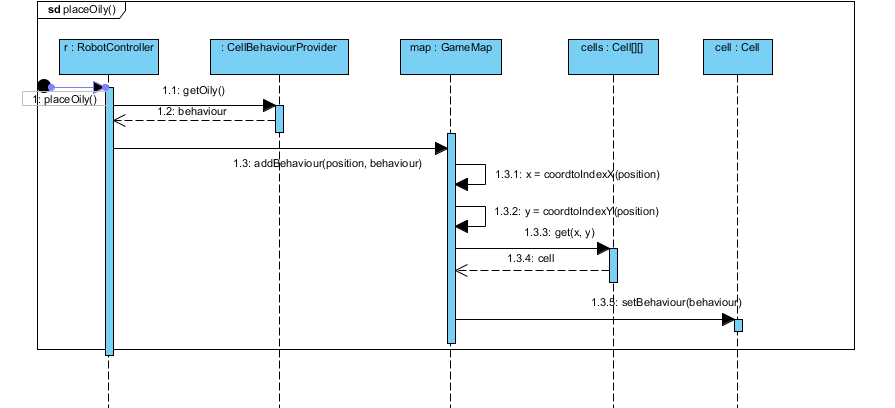
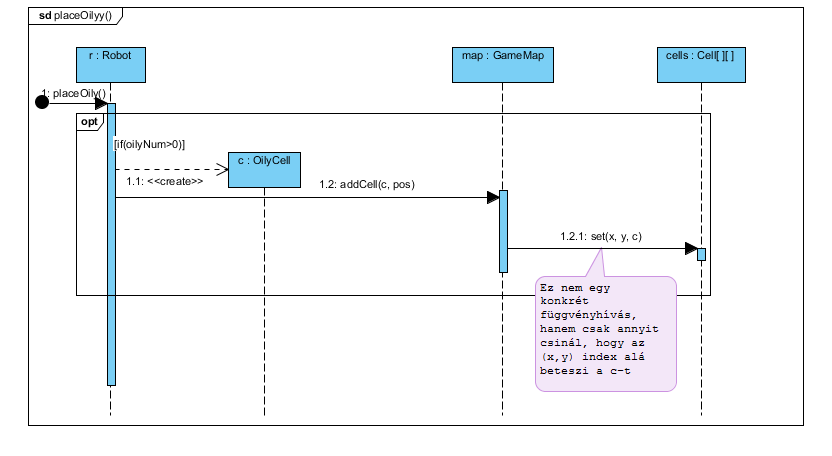
előző diagrammok törlése, képek feltöltése

diff --git a/chapters/chapter03/sablon03.tex b/chapters/chapter03/sablon03.tex
@@ -18,89 +18,10 @@
 
 \section{Statikus struktúra diagramok}
 
-\begin{figure}[!htbp]
-\begin{center}
-	\includegraphics[width=\textwidth, center]{./chapters/chapter03/static1.png}
-	\caption{A játék logikájának nagy részét kezelő osztályok}
-\end{center}
-\end{figure}
-
-\begin{figure}[!htbp]
-\begin{center}
-	\includegraphics[width=130mm, center]{./chapters/chapter03/static2.png}
-	\caption{A pályát, valamint a játék logikájának egy kis részét kezelő osztályok}
-\end{center}
-\end{figure}
 
 \clearpage
 
 \section{Szekvencia diagramok}
-
-\begin{figure}[!htbp]
-\begin{center}
-	\includegraphics[width=190mm, center]{./chapters/chapter03/startgame.png}
-	\caption{Játékindítás}
-\end{center}
-\end{figure}
-
-\begin{figure}[!htbp]
-\begin{center}
-	\includegraphics[width=90mm, center]{./chapters/chapter03/velocity.png}
-	\caption{Sebességvektor beállítása}
-\end{center}
-\end{figure}
-
-
-
-\begin{figure}[!htbp]
-	\begin{center}
-		\includegraphics[width=180mm, center]{./chapters/chapter03/sticky.png}
-		\caption{Ragacs elhelyezése}
-	\end{center}
-\end{figure}
-
-\begin{figure}[!htbp]
-	\begin{center}
-		\includegraphics[width=180mm, center]{./chapters/chapter03/oily.png}
-		\caption{Olaj elhelyezése}
-	\end{center}
-\end{figure}
-
-\begin{figure}[!htbp]
-	\begin{center}
-		\includegraphics[width=\textwidth, center]{./chapters/chapter03/step.png}
-		\caption{Ugrás a robotokkal}
-	\end{center}
-\end{figure}
-
-\begin{figure}[!htbp]
-	\begin{center}
-		\includegraphics[width=\textwidth, center]{./chapters/chapter03/iom.png}
-		\caption{map.isOnMap hívása, aldiagram}
-	\end{center}
-\end{figure}
-
-\begin{figure}[!htbp]
-	\begin{center}
-		\includegraphics[width=\textwidth, center]{./chapters/chapter03/iw.png}
-		\caption{map.interactWith hívása, aldiagram}
-	\end{center}
-\end{figure}
-
-\begin{figure}[!htbp]
-	\begin{center}
-		\includegraphics[width=\textwidth, center]{./chapters/chapter03/map.png}
-		\caption{Map konstruktorhívása}
-	\end{center}
-\end{figure}
-
-\begin{figure}[!htbp]
-	\begin{center}
-		\includegraphics[width=10cm, center]{./chapters/chapter03/endgame.png}
-		\caption{Játék vége}
-	\end{center}
-\end{figure}
-
 
 
 \clearpage
